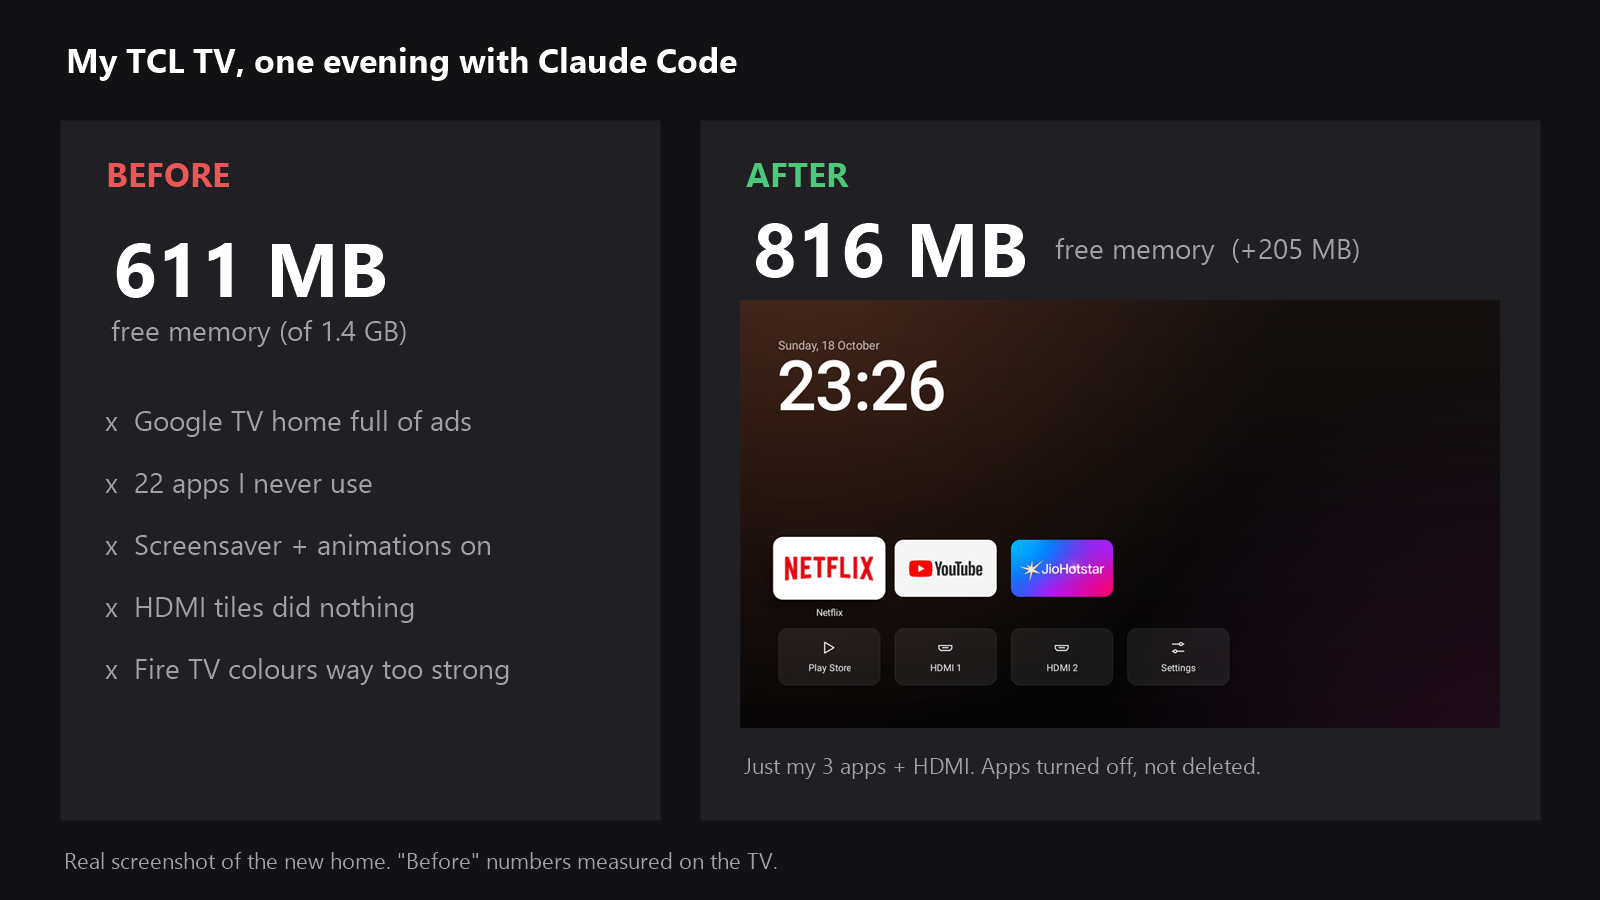
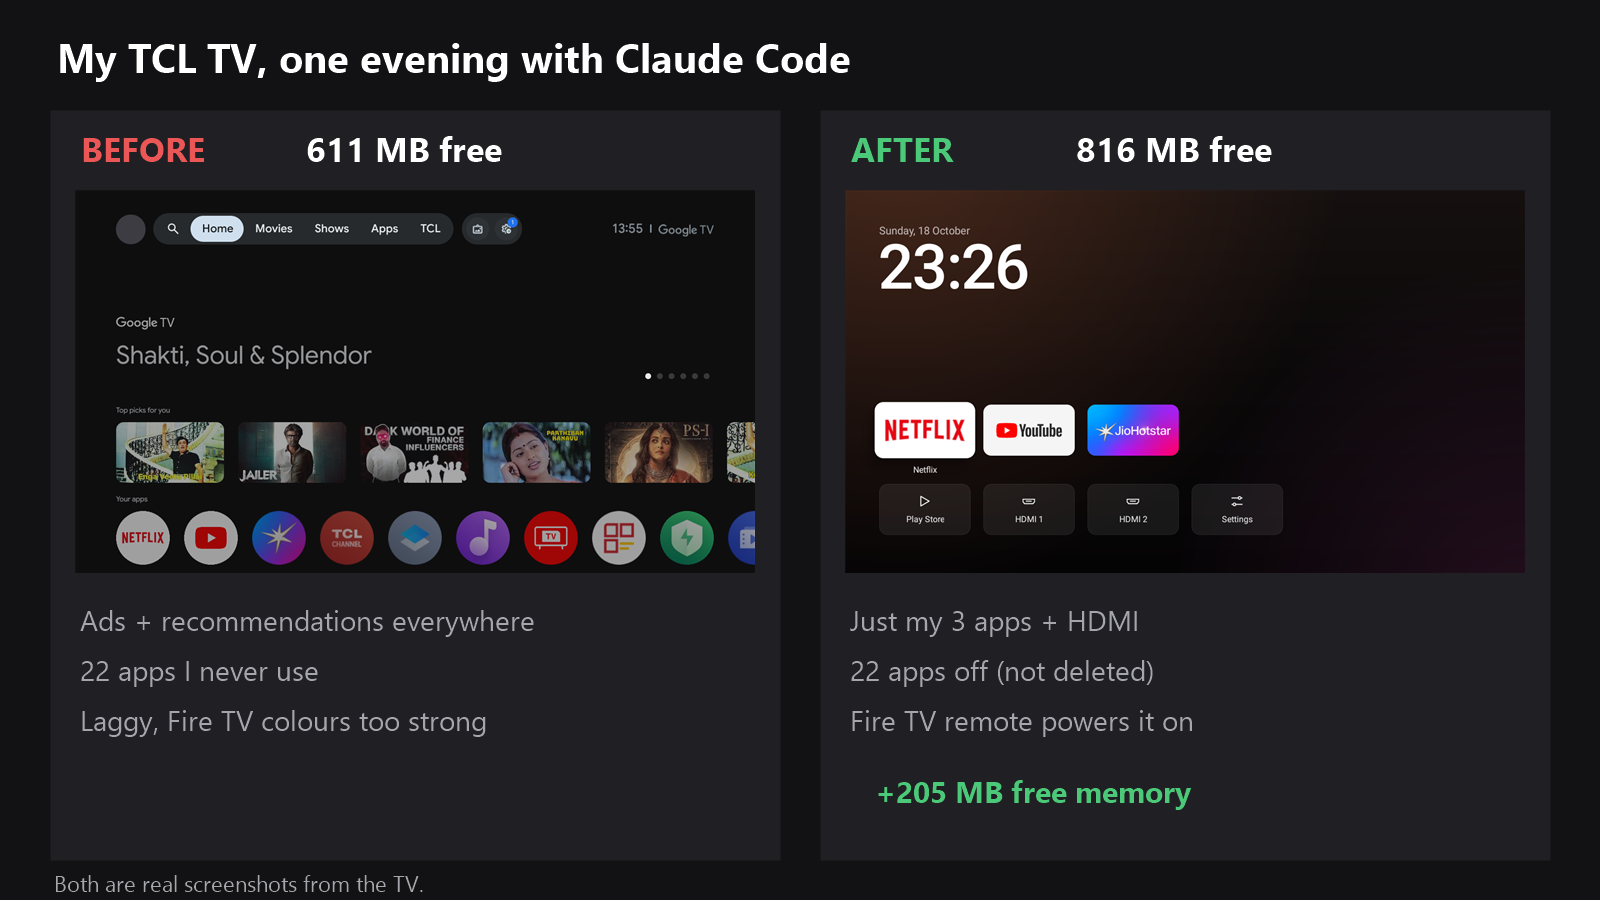
Add real before screenshot of Google TV home to posts and image

diff --git a/posts/posts.md b/posts/posts.md
@@ -1,6 +1,6 @@
 # Posts
 
-Image for both: `before-after.png` (optionally add `after-home-screen.png` as a second image)
+Image for both: `before-after.png` (side-by-side). Or post two images: `before-google-tv-home.png` then `after-home-screen.png`.
 
 ---
 
